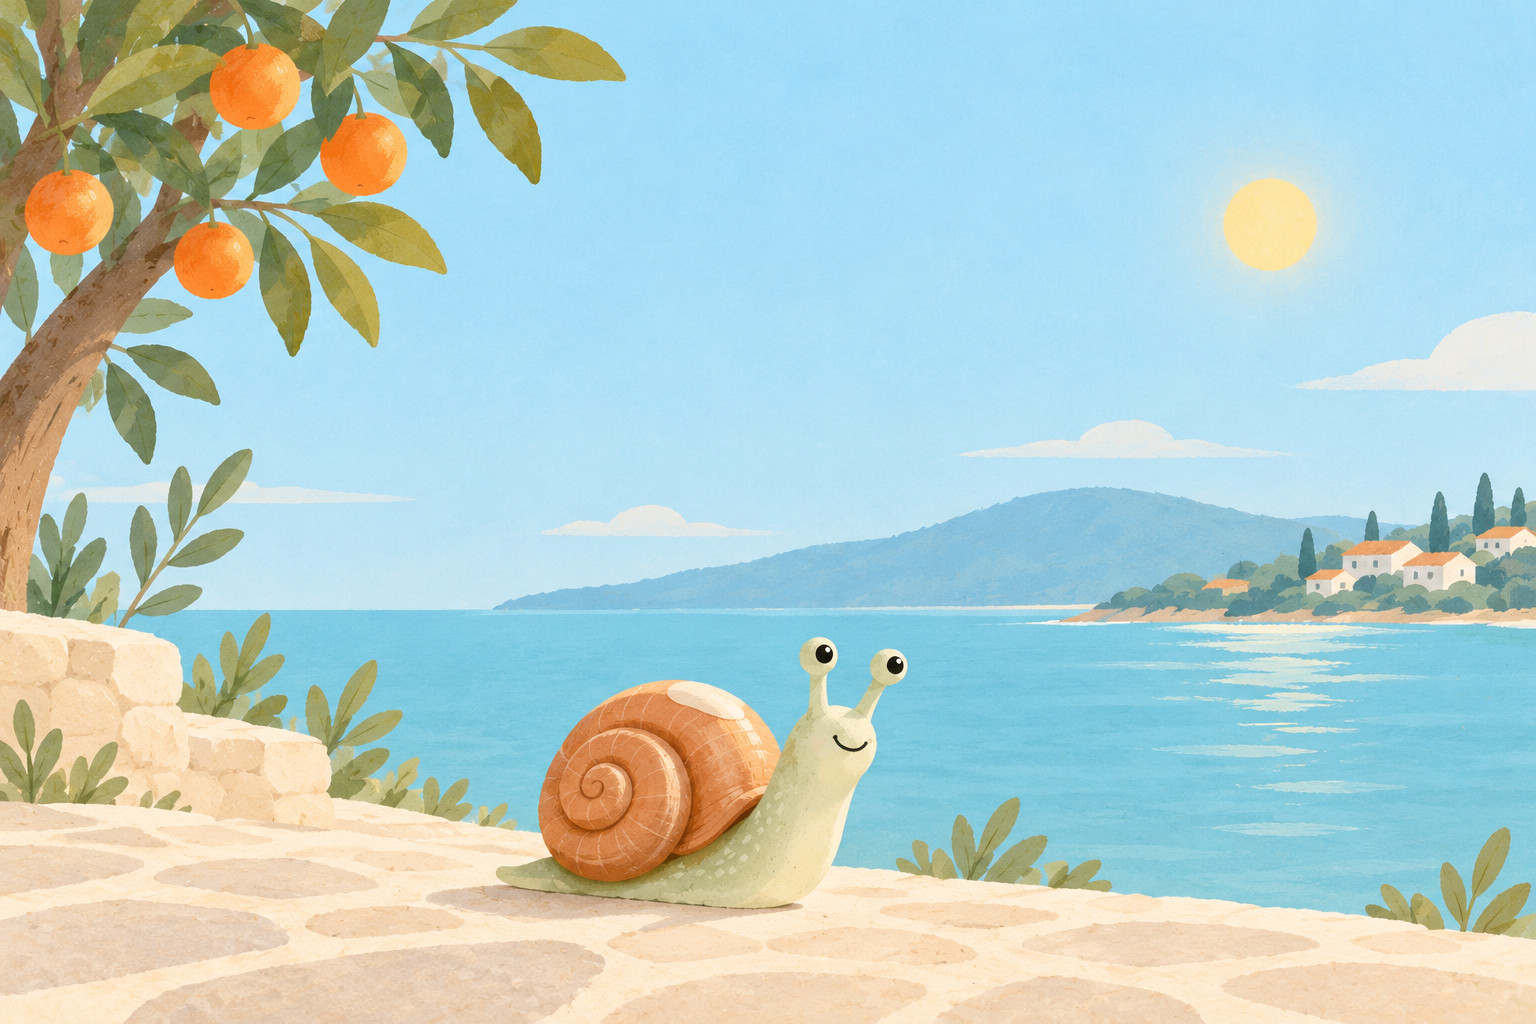
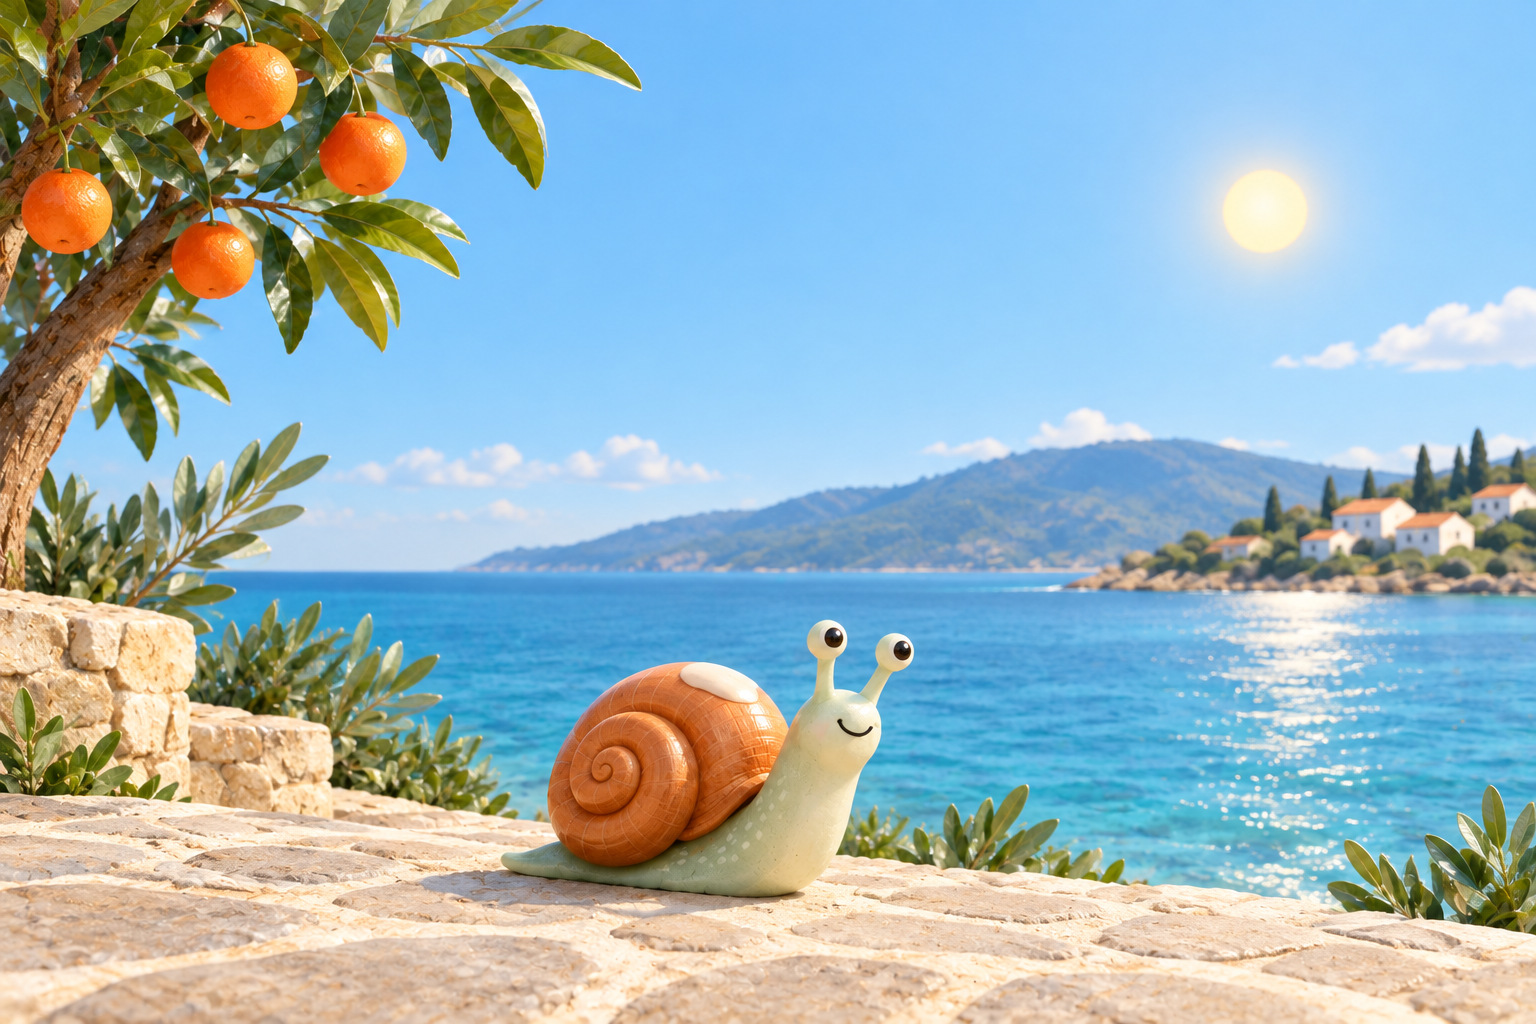
Use dimensional 3D snail weather scenes in the existing bottom strip

diff --git a/tests/test_weather_story.py b/tests/test_weather_story.py
@@ -176,6 +176,19 @@ def test_fingerprint_is_revision_bound_and_export_is_public_safe(store,tmp_path)
     assert export_weather(store,target,MORNING+timedelta(days=1)) is None
 
 
+def test_old_two_dimensional_card_cannot_be_claimed_as_the_new_three_dimensional_card(store):
+    forecast=seed(store)
+    api=adapter(forecast)
+    # The actual previous renderer's identity for this exact MGM forecast.
+    legacy='9fdc7ce17cda06c3818e6098'
+    assert asset_id(forecast)!=legacy
+    data=api.session.get.return_value.json.return_value['weather_story']
+    data.update(asset_id=legacy,asset=f'media/{legacy}/story-1.jpg')
+    assert publish_weather(store,MORNING,SITE,api)=={'status':'media_not_deployed'}
+    api.container.assert_not_called()
+    assert store.rows('SELECT status FROM weather_stories')==[{'status':'prepared'}]
+
+
 @pytest.mark.parametrize('field,value',[('low',True),('high',90),('place','Urla'),('source_url','https://example.org/'),('date','2026-10-15'),('fetched_at','2026-10-16T07:00:00')])
 def test_durable_state_rejects_wrong_or_private_forecast_fields(store,field,value):
     forecast=parse_forecast(HTML,MORNING)

diff --git a/seferihisar/weather_data.py b/seferihisar/weather_data.py
@@ -45,7 +45,7 @@ def asset_id(forecast):
     validate_forecast(forecast)
     # A changed prediction or renderer receives a new URL; checking again alone does not.
     values = {k: v for k, v in forecast.items() if k != 'fetched_at'}
-    return digest('daily-weather-snail-v1:' + json.dumps(values, ensure_ascii=False, sort_keys=True))
+    return digest('daily-weather-snail-3d-v2:' + json.dumps(values, ensure_ascii=False, sort_keys=True))
 
 
 def fresh(forecast, at):

diff --git a/seferihisar/weather_render.py b/seferihisar/weather_render.py
@@ -1,4 +1,4 @@
-"""Minimal forecast typography with a small original snail landscape near the bottom."""
+"""Minimal forecast typography with a small original 3D snail scene near the bottom."""
 from __future__ import annotations
 
 import re

diff --git a/seferihisar/assets/weather-snail.md b/seferihisar/assets/weather-snail.md
@@ -1,24 +1,33 @@
-# Hava durumu salyangozu
+# Üç boyutlu hava durumu salyangozu
 
-Bu proje için bir kez yerleşik görsel üretim aracıyla hazırlanmış özgün karakter.
+Kullanıcının 16 Ekim 2026 tercihiyle eski 2D çizim sahneleri, yerleşik
+`image_gen` aracıyla bir kez hazırlanmış sekiz özgün 3D CGI sahnesiyle değiştirildi.
 `weather-snail-{sunny,partly-cloudy,cloudy,rain,wind,storm,snow,fog}.jpg`
-dosyaları aynı karakterin sekiz hava sahnesidir. Günlük bulut çalışması yeni bir
-görsel üretim isteği yapmadan tahmine uygun olanı seçer.
+dosyaları aynı modelin farklı hava koşullarını gösterir. Günlük çalışmada
+yeni görsel üretim çağrısı yapılmaz.
 
-Karakter: açık adaçayı rengi gövde, iki göz sapı, küçük sempatik yüz, sıcak kiremit
-rengi spiral kabuk ve krem vurgu. Ortam: sade Ege kıyısı, mandalina ve zeytin
-detayları, soluk turkuaz deniz. Kullanıcı görselin yalnız story'nin altına küçük
-yatay bir sahne olarak yerleşmesini istedi. Üst bölüm hava verileri için sade
-tutulur. Google kurbağası ve resmî Cittaslow logosu bu varlıklarda kullanılmaz.
+Karakterin açık adaçayı gövdesi, kiremit renkli spiral kabuğu, krem vurgusu,
+iki göz sapı ve küçük gülümsemesi korunur. Hacimli biçimler, yumuşak fiziksel
+ışık/gölge, malzeme yansımaları ve yere oturan temas gölgesi kullanılır.
+Çevre sade Ege kıyısıdır: taş yol, mandalina/zeytin ayrıntıları ve turkuaz
+deniz. Karakter ve gerekli hava ipuçları küçük alt şerit kırpmasında görünür.
+Suluboya, guaj, fırça izi, kâğıt dokusu veya düz vektör görünümü yoktur.
+Google kurbağası, resmî Cittaslow simgesi, metin, logo ve filigran üretilmez.
+Mevcut logo, hava verileri, tarih ve marka çizgileri story şablonunda korunur.
 
-Ana istem: “An original charming little sage-green snail with a terracotta spiral
-shell on a quiet Aegean coastal path, sparse mandarin and olive details, muted
-cream/sage/pale-turquoise palette, gentle 2D gouache storybook illustration, lots
-of breathing room, no text, logos, watermark or UI.”
+Ana istem: “Transform the original Seferihisar snail coastal illustration into
+a polished dimensional 3D CGI scene. Preserve the pale sage snail, terracotta
+spiral shell, cream highlight, two eye stalks, friendly face, small lower-center
+placement and wide Aegean coastal composition. Rounded tangible model, smooth
+materials, soft natural light, physical highlights, ambient occlusion, contact
+shadow. No paint, paper, sketch or flat illustration texture. No text, logo or
+UI; complete snail and essential scene details inside the lowest 55%.”
 
-Varyasyon istemleri aynı karakter, yerleşim ve stili koruyarak güneşli, parçalı
-bulutlu, kapalı, şemsiyeli yağmurlu, yaprakların uçuştuğu rüzgârlı, uzakta şimşek
-olan fırtınalı, hafif karlı ve sisli havayı belirtir. Fırtınalı sahnede karakter
-bir yaprağın altında sakince korunur. Ayrıntılı üretim istemleri yerel çalışma
-çıktısında saklanır. JPEG kopyalar dağıtım boyutunu azaltır; özgünler çalışma
-çıktılarında korunur.
+Yedi düzenleme aynı 3D ana modelden türetildi: parçalı bulutlu, kapalı,
+şemsiyeli yağmurlu, küçük atkı ve uçuşan yapraklarla rüzgârlı, yaprak altında
+korunan ve uzakta şimşek görülen fırtınalı, hafif karlı ve sisli. Tam istemler
+ve özgün PNG'ler sohbetin `outputs/weather-snail-3d` çıktısında korunur.
+JPEG'ler yalnız dağıtım için biçimlendirilmiş kopyalardır.
+
+Bu görsel sürümünün medya kimliği `daily-weather-snail-3d-v2` ile ayrılır;
+aynı tahmine ait eski 2D kart, yeni tasarımın yayın kontrolünü geçemez.

diff --git a/docs/daily-weather-story.md b/docs/daily-weather-story.md
@@ -29,7 +29,9 @@ Bilgisayarın açık olması gerekmez. Yeni anahtar/izin veya ücretli servis yo
 
 1080×1920 kart sıcak açık zemin, sabit logo/renkler, ince şerit, tarihle birlikte
 “Günaydın, Seferihisar!” ve kutusuz sıcaklıkları gösterir. Özgün salyangozlu
-manzara yalnız alt bölümde küçük yatay bir sahnedir. Aynı karakterin güneşli,
+manzara yalnız alt bölümde küçük yatay bir sahnedir. Kullanıcının tercihiyle
+salyangoz ve çevresi hacimli, yumuşak ışıklı 3D CGI görünümündedir; çizim,
+suluboya ve kâğıt dokusu kullanılmaz. Aynı karakterin güneşli,
 parçalı bulutlu, kapalı, yağmurlu, rüzgârlı, fırtınalı, karlı ve sisli sahneleri
 bir kez hazırlanmış yerel varlıklardır; günün gerçek tahminine göre seçilir.
 Google kurbağası veya resmî Cittaslow logosu kullanılmaz. Günlük kartın hazırlanması
